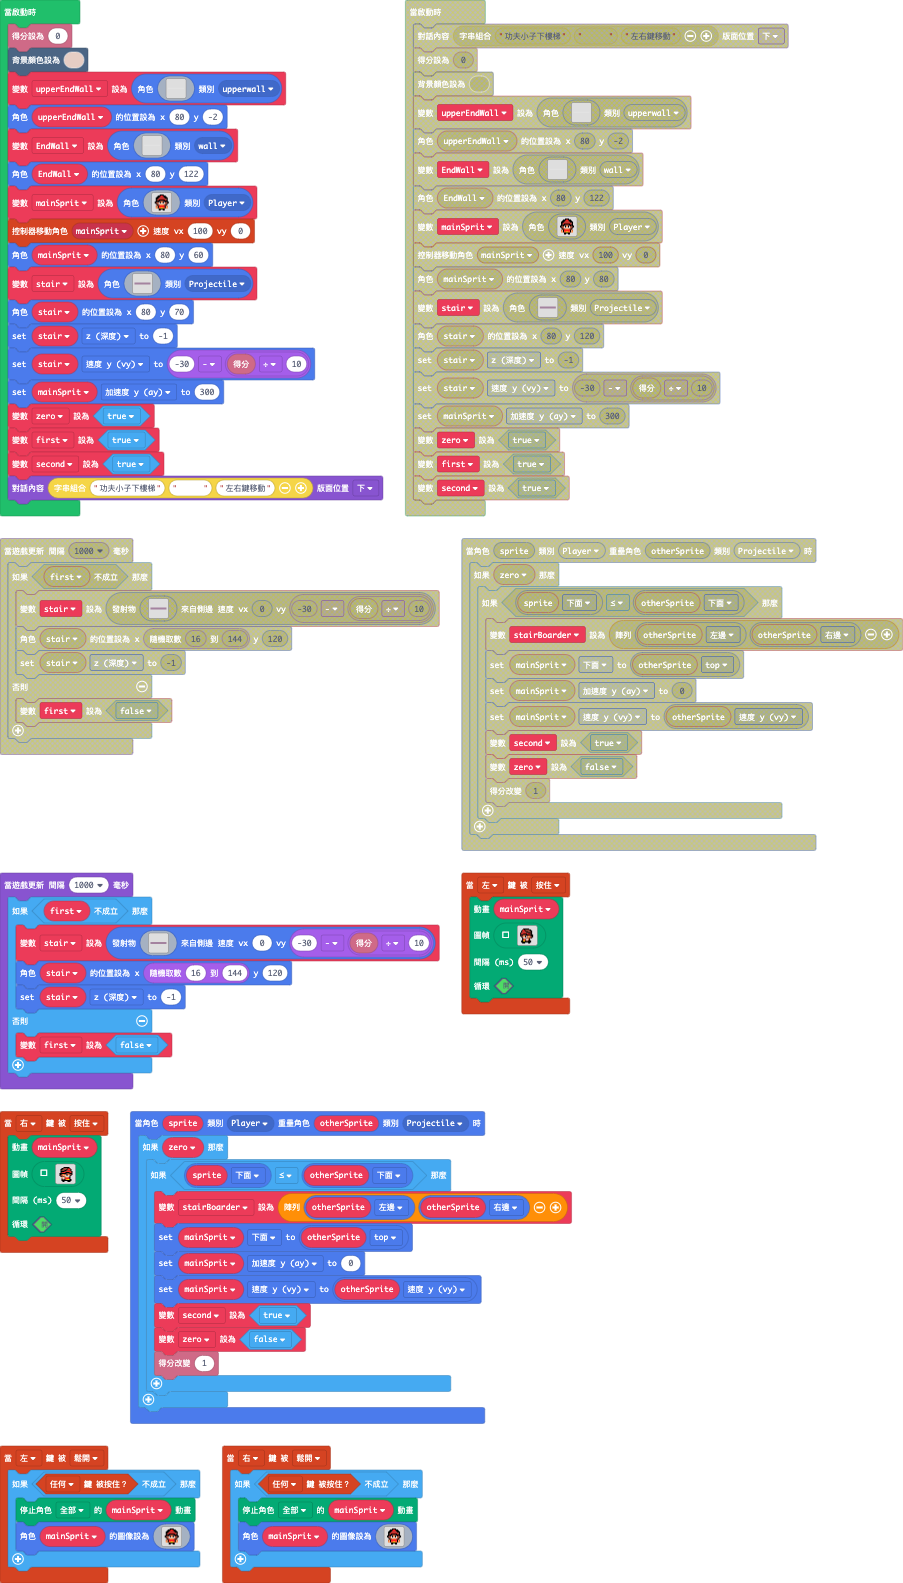
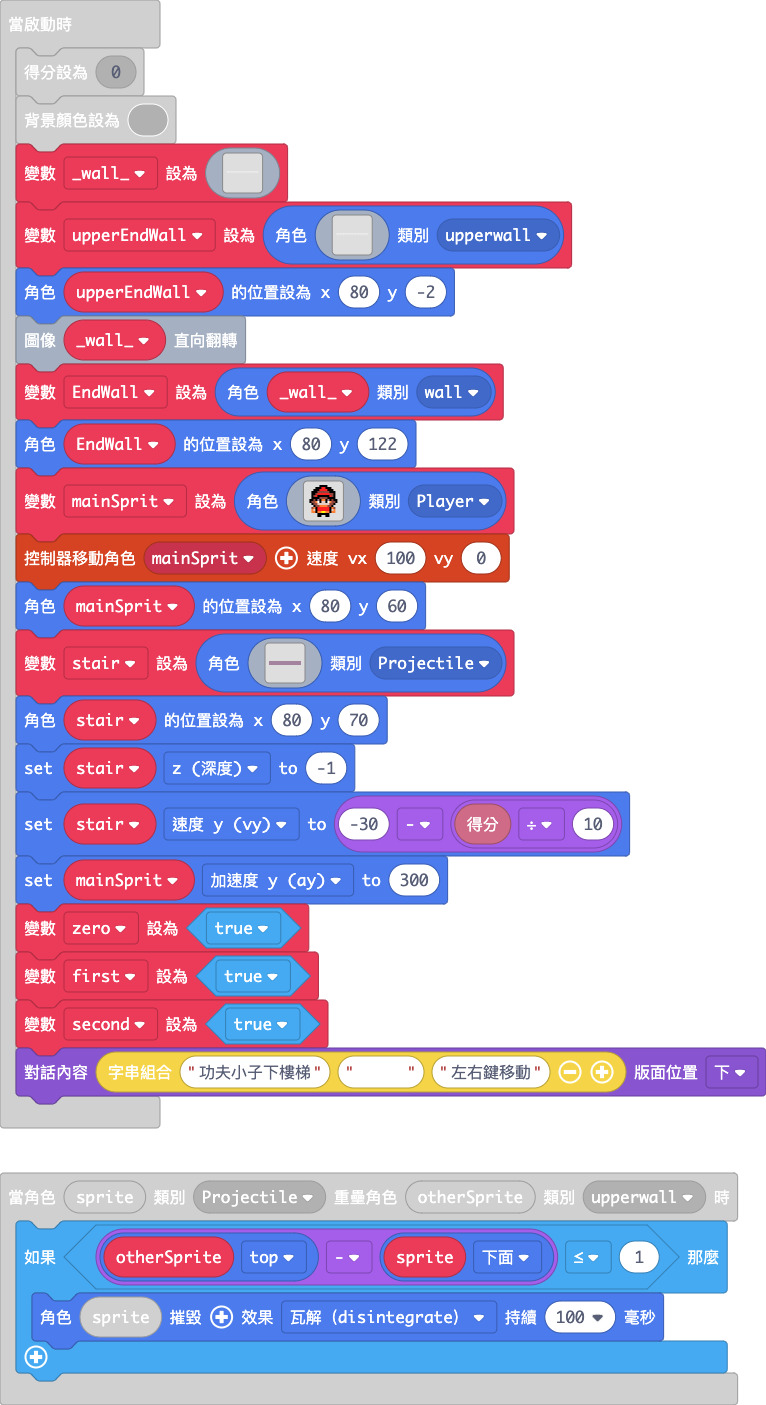
the sprite "upperEndWall" and "EndWall" pic. && stair disapear animate

diff --git a/main.ts b/main.ts
@@ -85,8 +85,8 @@ sprites.onOverlap(SpriteKind.Player, SpriteKind.wall, function (sprite, otherSpr
     game.over(false, effects.dissolve)
 })
 sprites.onOverlap(SpriteKind.Projectile, SpriteKind.upperwall, function (sprite, otherSprite) {
-    if (sprite.bottom == otherSprite.bottom) {
-        sprite.destroy()
+    if (otherSprite.top - sprite.bottom <= 1) {
+        sprite.destroy(effects.disintegrate, 100)
     }
 })
 controller.left.onEvent(ControllerButtonEvent.Released, function () {
@@ -230,19 +230,37 @@ let zero = false
 let mainSprit: Sprite = null
 info.setScore(0)
 scene.setBackgroundColor(13)
+let _wall_ = img`
+1 1 1 1 1 1 1 1 1 1 1 1 1 1 1 1 1 1 1 1 1 1 1 1 1 1 1 1 1 1 1 1 1 1 1 1 1 1 1 1 1 1 1 1 1 1 1 1 1 1 1 1 1 1 1 1 1 1 1 1 1 1 1 1 1 1 1 1 1 1 1 1 1 1 1 1 1 1 1 1 1 1 1 1 1 1 1 1 1 1 1 1 1 1 1 1 1 1 1 1 1 1 1 1 1 1 1 1 1 1 1 1 1 1 1 1 1 1 1 1 1 1 1 1 1 1 1 1 1 1 1 1 1 1 1 1 1 1 1 1 1 1 1 1 1 1 1 1 1 1 1 1 1 1 1 1 1 1 1 1 
+1 1 1 1 1 1 1 1 1 1 1 1 1 1 1 1 1 1 1 1 1 1 1 1 1 1 1 1 1 1 1 1 1 1 1 1 1 1 1 1 1 1 1 1 1 1 1 1 1 1 1 1 1 1 1 1 1 1 1 1 1 1 1 1 1 1 1 1 1 1 1 1 1 1 1 1 1 1 1 1 1 1 1 1 1 1 1 1 1 1 1 1 1 1 1 1 1 1 1 1 1 1 1 1 1 1 1 1 1 1 1 1 1 1 1 1 1 1 1 1 1 1 1 1 1 1 1 1 1 1 1 1 1 1 1 1 1 1 1 1 1 1 1 1 1 1 1 1 1 1 1 1 1 1 1 1 1 1 1 1 
+1 1 1 1 1 1 1 1 1 1 1 1 1 1 1 1 1 1 1 1 1 1 1 1 1 1 1 1 1 1 1 1 1 1 1 1 1 1 1 1 1 1 1 1 1 1 1 1 1 1 1 1 1 1 1 1 1 1 1 1 1 1 1 1 1 1 1 1 1 1 1 1 1 1 1 1 1 1 1 1 1 1 1 1 1 1 1 1 1 1 1 1 1 1 1 1 1 1 1 1 1 1 1 1 1 1 1 1 1 1 1 1 1 1 1 1 1 1 1 1 1 1 1 1 1 1 1 1 1 1 1 1 1 1 1 1 1 1 1 1 1 1 1 1 1 1 1 1 1 1 1 1 1 1 1 1 1 1 1 1 
+1 1 1 1 1 1 1 1 1 1 1 1 1 1 1 1 1 1 1 1 1 1 1 1 1 1 1 1 1 1 1 1 1 1 1 1 1 1 1 1 1 1 1 1 1 1 1 1 1 1 1 1 1 1 1 1 1 1 1 1 1 1 1 1 1 1 1 1 1 1 1 1 1 1 1 1 1 1 1 1 1 1 1 1 1 1 1 1 1 1 1 1 1 1 1 1 1 1 1 1 1 1 1 1 1 1 1 1 1 1 1 1 1 1 1 1 1 1 1 1 1 1 1 1 1 1 1 1 1 1 1 1 1 1 1 1 1 1 1 1 1 1 1 1 1 1 1 1 1 1 1 1 1 1 1 1 1 1 1 1 
+1 1 1 1 1 1 1 1 1 1 1 1 1 1 1 1 1 1 1 1 1 1 1 1 1 1 1 1 1 1 1 1 1 1 1 1 1 1 1 1 1 1 1 1 1 1 1 1 1 1 1 1 1 1 1 1 1 1 1 1 1 1 1 1 1 1 1 1 1 1 1 1 1 1 1 1 1 1 1 1 1 1 1 1 1 1 1 1 1 1 1 1 1 1 1 1 1 1 1 1 1 1 1 1 1 1 1 1 1 1 1 1 1 1 1 1 1 1 1 1 1 1 1 1 1 1 1 1 1 1 1 1 1 1 1 1 1 1 1 1 1 1 1 1 1 1 1 1 1 1 1 1 1 1 1 1 1 1 1 1 
+. 1 1 1 1 1 1 1 1 1 1 1 1 1 1 . 1 1 1 1 1 1 1 1 1 1 1 1 1 . 1 1 1 1 1 1 1 1 1 1 1 1 1 . 1 1 1 1 1 1 1 1 1 1 1 1 1 . . 1 1 1 1 1 1 1 1 1 1 1 1 1 1 . 1 1 1 1 1 1 1 1 1 1 1 1 1 . 1 1 1 1 1 1 1 1 1 1 1 1 1 . . 1 1 1 1 1 1 1 1 1 1 1 1 1 . . 1 1 1 1 1 1 1 1 1 1 1 1 1 . 1 1 1 1 1 1 1 1 1 1 1 1 1 . 1 1 1 1 1 1 1 1 1 1 1 1 1 . 
+. . 1 1 1 1 1 1 1 1 1 1 1 1 . . . 1 1 1 1 1 1 1 1 1 1 1 . . . 1 1 1 1 1 1 1 1 1 1 1 . . . 1 1 1 1 1 1 1 1 1 1 1 . . . . 1 1 1 1 1 1 1 1 1 1 1 1 . . . 1 1 1 1 1 1 1 1 1 1 1 . . . 1 1 1 1 1 1 1 1 1 1 1 . . . . 1 1 1 1 1 1 1 1 1 1 1 . . . . 1 1 1 1 1 1 1 1 1 1 1 . . . 1 1 1 1 1 1 1 1 1 1 1 . . . 1 1 1 1 1 1 1 1 1 1 1 . . 
+. . . 1 1 1 1 1 1 1 1 1 1 . . . . . 1 1 1 1 1 1 1 1 1 . . . . . 1 1 1 1 1 1 1 1 1 . . . . . 1 1 1 1 1 1 1 1 1 . . . . . . 1 1 1 1 1 1 1 1 1 1 . . . . . 1 1 1 1 1 1 1 1 1 . . . . . 1 1 1 1 1 1 1 1 1 . . . . . . 1 1 1 1 1 1 1 1 1 . . . . . . 1 1 1 1 1 1 1 1 1 . . . . . 1 1 1 1 1 1 1 1 1 . . . . . 1 1 1 1 1 1 1 1 1 . . . 
+. . . . 1 1 1 1 1 1 1 1 . . . . . . . 1 1 1 1 1 1 1 . . . . . . . 1 1 1 1 1 1 1 . . . . . . . 1 1 1 1 1 1 1 . . . . . . . . 1 1 1 1 1 1 1 1 . . . . . . . 1 1 1 1 1 1 1 . . . . . . . 1 1 1 1 1 1 1 . . . . . . . . 1 1 1 1 1 1 1 . . . . . . . . 1 1 1 1 1 1 1 . . . . . . . 1 1 1 1 1 1 1 . . . . . . . 1 1 1 1 1 1 1 . . . . 
+. . . . . 1 1 1 1 1 1 . . . . . . . . . 1 1 1 1 1 . . . . . . . . . 1 1 1 1 1 . . . . . . . . . 1 1 1 1 1 . . . . . . . . . . 1 1 1 1 1 1 . . . . . . . . . 1 1 1 1 1 . . . . . . . . . 1 1 1 1 1 . . . . . . . . . . 1 1 1 1 1 . . . . . . . . . . 1 1 1 1 1 . . . . . . . . . 1 1 1 1 1 . . . . . . . . . 1 1 1 1 1 1 . . . . 
+. . . . . . 1 1 1 1 . . . . . . . . . . . 1 1 1 . . . . . . . . . . . 1 1 1 . . . . . . . . . . . 1 1 1 . . . . . . . . . . . . 1 1 1 1 . . . . . . . . . . . 1 1 1 . . . . . . . . . . . 1 1 1 . . . . . . . . . . . . 1 1 1 . . . . . . . . . . . . 1 1 1 . . . . . . . . . . . 1 1 1 . . . . . . . . . . . 1 1 1 1 . . . . . 
+. . . . . . . 1 1 . . . . . . . . . . . . . 1 . . . . . . . . . . . . . 1 . . . . . . . . . . . . . 1 . . . . . . . . . . . . . . 1 1 . . . . . . . . . . . . . 1 . . . . . . . . . . . . . 1 . . . . . . . . . . . . . . 1 . . . . . . . . . . . . . . 1 . . . . . . . . . . . . . 1 . . . . . . . . . . . . . 1 1 . . . . . . 
+`
 let upperEndWall = sprites.create(img`
 1 1 1 1 1 1 1 1 1 1 1 1 1 1 1 1 1 1 1 1 1 1 1 1 1 1 1 1 1 1 1 1 1 1 1 1 1 1 1 1 1 1 1 1 1 1 1 1 1 1 1 1 1 1 1 1 1 1 1 1 1 1 1 1 1 1 1 1 1 1 1 1 1 1 1 1 1 1 1 1 1 1 1 1 1 1 1 1 1 1 1 1 1 1 1 1 1 1 1 1 1 1 1 1 1 1 1 1 1 1 1 1 1 1 1 1 1 1 1 1 1 1 1 1 1 1 1 1 1 1 1 1 1 1 1 1 1 1 1 1 1 1 1 1 1 1 1 1 1 1 1 1 1 1 1 1 1 1 1 1 
 1 1 1 1 1 1 1 1 1 1 1 1 1 1 1 1 1 1 1 1 1 1 1 1 1 1 1 1 1 1 1 1 1 1 1 1 1 1 1 1 1 1 1 1 1 1 1 1 1 1 1 1 1 1 1 1 1 1 1 1 1 1 1 1 1 1 1 1 1 1 1 1 1 1 1 1 1 1 1 1 1 1 1 1 1 1 1 1 1 1 1 1 1 1 1 1 1 1 1 1 1 1 1 1 1 1 1 1 1 1 1 1 1 1 1 1 1 1 1 1 1 1 1 1 1 1 1 1 1 1 1 1 1 1 1 1 1 1 1 1 1 1 1 1 1 1 1 1 1 1 1 1 1 1 1 1 1 1 1 1 
 1 1 1 1 1 1 1 1 1 1 1 1 1 1 1 1 1 1 1 1 1 1 1 1 1 1 1 1 1 1 1 1 1 1 1 1 1 1 1 1 1 1 1 1 1 1 1 1 1 1 1 1 1 1 1 1 1 1 1 1 1 1 1 1 1 1 1 1 1 1 1 1 1 1 1 1 1 1 1 1 1 1 1 1 1 1 1 1 1 1 1 1 1 1 1 1 1 1 1 1 1 1 1 1 1 1 1 1 1 1 1 1 1 1 1 1 1 1 1 1 1 1 1 1 1 1 1 1 1 1 1 1 1 1 1 1 1 1 1 1 1 1 1 1 1 1 1 1 1 1 1 1 1 1 1 1 1 1 1 1 
 1 1 1 1 1 1 1 1 1 1 1 1 1 1 1 1 1 1 1 1 1 1 1 1 1 1 1 1 1 1 1 1 1 1 1 1 1 1 1 1 1 1 1 1 1 1 1 1 1 1 1 1 1 1 1 1 1 1 1 1 1 1 1 1 1 1 1 1 1 1 1 1 1 1 1 1 1 1 1 1 1 1 1 1 1 1 1 1 1 1 1 1 1 1 1 1 1 1 1 1 1 1 1 1 1 1 1 1 1 1 1 1 1 1 1 1 1 1 1 1 1 1 1 1 1 1 1 1 1 1 1 1 1 1 1 1 1 1 1 1 1 1 1 1 1 1 1 1 1 1 1 1 1 1 1 1 1 1 1 1 
+1 1 1 1 1 1 1 1 1 1 1 1 1 1 1 1 1 1 1 1 1 1 1 1 1 1 1 1 1 1 1 1 1 1 1 1 1 1 1 1 1 1 1 1 1 1 1 1 1 1 1 1 1 1 1 1 1 1 1 1 1 1 1 1 1 1 1 1 1 1 1 1 1 1 1 1 1 1 1 1 1 1 1 1 1 1 1 1 1 1 1 1 1 1 1 1 1 1 1 1 1 1 1 1 1 1 1 1 1 1 1 1 1 1 1 1 1 1 1 1 1 1 1 1 1 1 1 1 1 1 1 1 1 1 1 1 1 1 1 1 1 1 1 1 1 1 1 1 1 1 1 1 1 1 1 1 1 1 1 1 
+. 1 1 1 1 1 1 1 1 1 1 1 1 1 1 . 1 1 1 1 1 1 1 1 1 1 1 1 1 . 1 1 1 1 1 1 1 1 1 1 1 1 1 . 1 1 1 1 1 1 1 1 1 1 1 1 1 . . 1 1 1 1 1 1 1 1 1 1 1 1 1 1 . 1 1 1 1 1 1 1 1 1 1 1 1 1 . 1 1 1 1 1 1 1 1 1 1 1 1 1 . . 1 1 1 1 1 1 1 1 1 1 1 1 1 . . 1 1 1 1 1 1 1 1 1 1 1 1 1 . 1 1 1 1 1 1 1 1 1 1 1 1 1 . 1 1 1 1 1 1 1 1 1 1 1 1 1 . 
+. . 1 1 1 1 1 1 1 1 1 1 1 1 . . . 1 1 1 1 1 1 1 1 1 1 1 . . . 1 1 1 1 1 1 1 1 1 1 1 . . . 1 1 1 1 1 1 1 1 1 1 1 . . . . 1 1 1 1 1 1 1 1 1 1 1 1 . . . 1 1 1 1 1 1 1 1 1 1 1 . . . 1 1 1 1 1 1 1 1 1 1 1 . . . . 1 1 1 1 1 1 1 1 1 1 1 . . . . 1 1 1 1 1 1 1 1 1 1 1 . . . 1 1 1 1 1 1 1 1 1 1 1 . . . 1 1 1 1 1 1 1 1 1 1 1 . . 
+. . . 1 1 1 1 1 1 1 1 1 1 . . . . . 1 1 1 1 1 1 1 1 1 . . . . . 1 1 1 1 1 1 1 1 1 . . . . . 1 1 1 1 1 1 1 1 1 . . . . . . 1 1 1 1 1 1 1 1 1 1 . . . . . 1 1 1 1 1 1 1 1 1 . . . . . 1 1 1 1 1 1 1 1 1 . . . . . . 1 1 1 1 1 1 1 1 1 . . . . . . 1 1 1 1 1 1 1 1 1 . . . . . 1 1 1 1 1 1 1 1 1 . . . . . 1 1 1 1 1 1 1 1 1 . . . 
+. . . . 1 1 1 1 1 1 1 1 . . . . . . . 1 1 1 1 1 1 1 . . . . . . . 1 1 1 1 1 1 1 . . . . . . . 1 1 1 1 1 1 1 . . . . . . . . 1 1 1 1 1 1 1 1 . . . . . . . 1 1 1 1 1 1 1 . . . . . . . 1 1 1 1 1 1 1 . . . . . . . . 1 1 1 1 1 1 1 . . . . . . . . 1 1 1 1 1 1 1 . . . . . . . 1 1 1 1 1 1 1 . . . . . . . 1 1 1 1 1 1 1 . . . . 
+. . . . . 1 1 1 1 1 1 . . . . . . . . . 1 1 1 1 1 . . . . . . . . . 1 1 1 1 1 . . . . . . . . . 1 1 1 1 1 . . . . . . . . . . 1 1 1 1 1 1 . . . . . . . . . 1 1 1 1 1 . . . . . . . . . 1 1 1 1 1 . . . . . . . . . . 1 1 1 1 1 . . . . . . . . . . 1 1 1 1 1 . . . . . . . . . 1 1 1 1 1 . . . . . . . . . 1 1 1 1 1 1 . . . . 
+. . . . . . 1 1 1 1 . . . . . . . . . . . 1 1 1 . . . . . . . . . . . 1 1 1 . . . . . . . . . . . 1 1 1 . . . . . . . . . . . . 1 1 1 1 . . . . . . . . . . . 1 1 1 . . . . . . . . . . . 1 1 1 . . . . . . . . . . . . 1 1 1 . . . . . . . . . . . . 1 1 1 . . . . . . . . . . . 1 1 1 . . . . . . . . . . . 1 1 1 1 . . . . . 
+. . . . . . . 1 1 . . . . . . . . . . . . . 1 . . . . . . . . . . . . . 1 . . . . . . . . . . . . . 1 . . . . . . . . . . . . . . 1 1 . . . . . . . . . . . . . 1 . . . . . . . . . . . . . 1 . . . . . . . . . . . . . . 1 . . . . . . . . . . . . . . 1 . . . . . . . . . . . . . 1 . . . . . . . . . . . . . 1 1 . . . . . . 
 `, SpriteKind.upperwall)
 upperEndWall.setPosition(80, -2)
-let EndWall = sprites.create(img`
-1 1 1 1 1 1 1 1 1 1 1 1 1 1 1 1 1 1 1 1 1 1 1 1 1 1 1 1 1 1 1 1 1 1 1 1 1 1 1 1 1 1 1 1 1 1 1 1 1 1 1 1 1 1 1 1 1 1 1 1 1 1 1 1 1 1 1 1 1 1 1 1 1 1 1 1 1 1 1 1 1 1 1 1 1 1 1 1 1 1 1 1 1 1 1 1 1 1 1 1 1 1 1 1 1 1 1 1 1 1 1 1 1 1 1 1 1 1 1 1 1 1 1 1 1 1 1 1 1 1 1 1 1 1 1 1 1 1 1 1 1 1 1 1 1 1 1 1 1 1 1 1 1 1 1 1 1 1 1 1 
-1 1 1 1 1 1 1 1 1 1 1 1 1 1 1 1 1 1 1 1 1 1 1 1 1 1 1 1 1 1 1 1 1 1 1 1 1 1 1 1 1 1 1 1 1 1 1 1 1 1 1 1 1 1 1 1 1 1 1 1 1 1 1 1 1 1 1 1 1 1 1 1 1 1 1 1 1 1 1 1 1 1 1 1 1 1 1 1 1 1 1 1 1 1 1 1 1 1 1 1 1 1 1 1 1 1 1 1 1 1 1 1 1 1 1 1 1 1 1 1 1 1 1 1 1 1 1 1 1 1 1 1 1 1 1 1 1 1 1 1 1 1 1 1 1 1 1 1 1 1 1 1 1 1 1 1 1 1 1 1 
-1 1 1 1 1 1 1 1 1 1 1 1 1 1 1 1 1 1 1 1 1 1 1 1 1 1 1 1 1 1 1 1 1 1 1 1 1 1 1 1 1 1 1 1 1 1 1 1 1 1 1 1 1 1 1 1 1 1 1 1 1 1 1 1 1 1 1 1 1 1 1 1 1 1 1 1 1 1 1 1 1 1 1 1 1 1 1 1 1 1 1 1 1 1 1 1 1 1 1 1 1 1 1 1 1 1 1 1 1 1 1 1 1 1 1 1 1 1 1 1 1 1 1 1 1 1 1 1 1 1 1 1 1 1 1 1 1 1 1 1 1 1 1 1 1 1 1 1 1 1 1 1 1 1 1 1 1 1 1 1 
-1 1 1 1 1 1 1 1 1 1 1 1 1 1 1 1 1 1 1 1 1 1 1 1 1 1 1 1 1 1 1 1 1 1 1 1 1 1 1 1 1 1 1 1 1 1 1 1 1 1 1 1 1 1 1 1 1 1 1 1 1 1 1 1 1 1 1 1 1 1 1 1 1 1 1 1 1 1 1 1 1 1 1 1 1 1 1 1 1 1 1 1 1 1 1 1 1 1 1 1 1 1 1 1 1 1 1 1 1 1 1 1 1 1 1 1 1 1 1 1 1 1 1 1 1 1 1 1 1 1 1 1 1 1 1 1 1 1 1 1 1 1 1 1 1 1 1 1 1 1 1 1 1 1 1 1 1 1 1 1 
-`, SpriteKind.wall)
+_wall_.flipY()
+let EndWall = sprites.create(_wall_, SpriteKind.wall)
 EndWall.setPosition(80, 122)
 mainSprit = sprites.create(img`
 . . . . . . f f f f . . . . . . 
